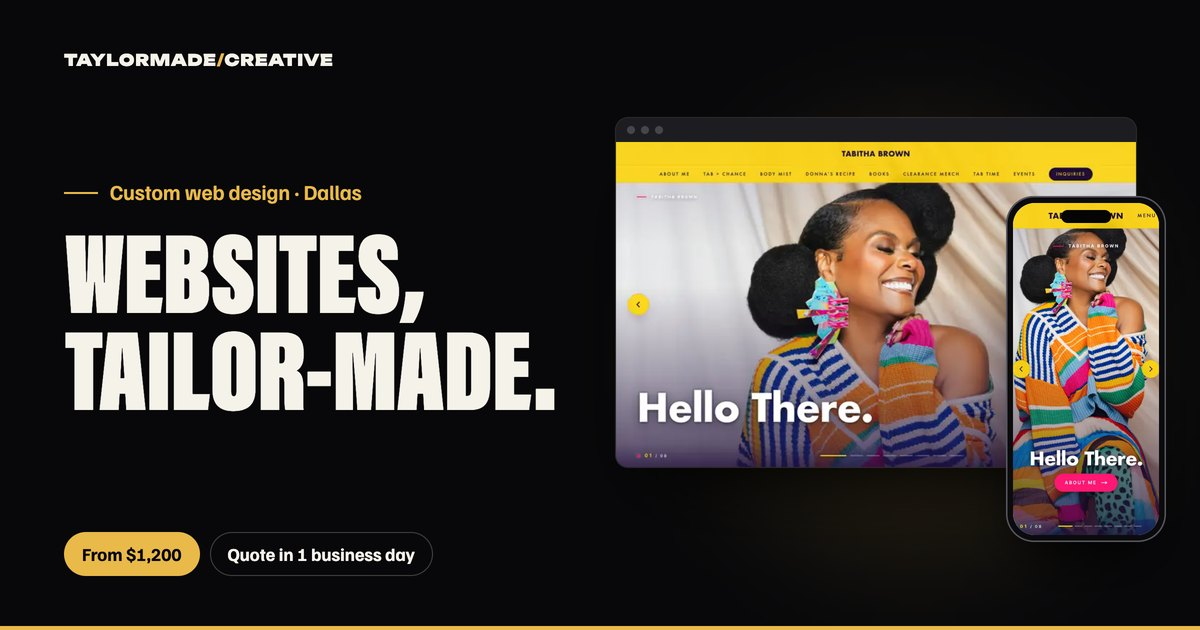
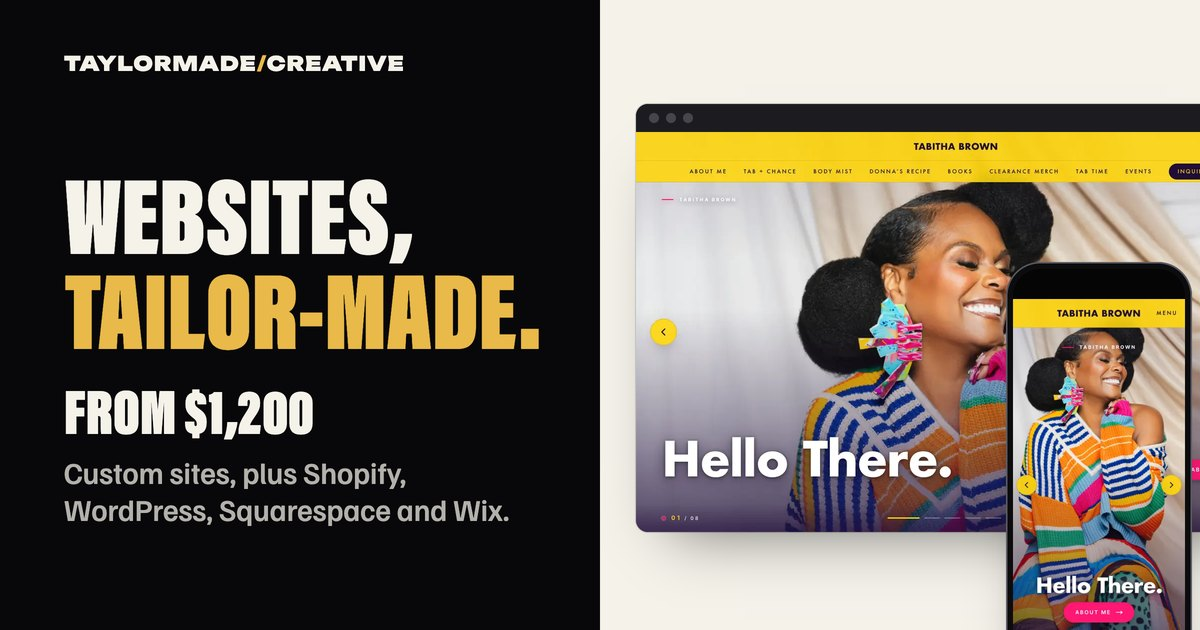
Share images v2: art-directed cover system (colour field + hard-edged panel, page h1 with gold word, one real offer line)

diff --git a/web-design/index.html b/web-design/index.html
@@ -17,7 +17,7 @@
   <meta property="og:image" content="https://www.taylormadecreative.net/assets/img/og/web-design.jpg">
   <meta property="og:image:width" content="1200">
   <meta property="og:image:height" content="630">
-  <meta property="og:image:alt" content="Taylormade Creative · Custom web design · Dallas: Websites, tailor-made. tabithabrown.com on a laptop and a phone.">
+  <meta property="og:image:alt" content="Taylormade Creative: Websites, tailor-made. From $1,200. Custom sites, plus Shopify, WordPress, Squarespace and Wix. tabithabrown.com in a browser and on a phone.">
   <meta property="og:url" content="https://www.taylormadecreative.net/web-design/">
   <meta name="twitter:card" content="summary_large_image">
   <meta name="twitter:title" content="Custom Web Design in Dallas | Taylormade Creative">

diff --git a/web-design/squarespace/index.html b/web-design/squarespace/index.html
@@ -17,7 +17,7 @@
   <meta property="og:image" content="https://www.taylormadecreative.net/assets/img/og/web-squarespace.jpg">
   <meta property="og:image:width" content="1200">
   <meta property="og:image:height" content="630">
-  <meta property="og:image:alt" content="Taylormade Creative · Squarespace web design · Dallas: Squarespace, past the template.">
+  <meta property="og:image:alt" content="Taylormade Creative: Squarespace, past the template. A Squarespace site shown in a browser and on a phone.">
   <meta property="og:url" content="https://www.taylormadecreative.net/web-design/squarespace/">
   <meta name="twitter:card" content="summary_large_image">
   <meta name="twitter:title" content="Squarespace Designer in Dallas–Fort Worth | Taylormade Creative">

diff --git a/branding-photography/index.html b/branding-photography/index.html
@@ -15,7 +15,7 @@
   <meta property="og:image" content="https://www.taylormadecreative.net/assets/img/og/branding-photography.jpg">
   <meta property="og:image:width" content="1200">
   <meta property="og:image:height" content="630">
-  <meta property="og:image:alt" content="Taylormade Creative · Branding photoshoots · Dallas: Put a face on your brand.">
+  <meta property="og:image:alt" content="Taylormade Creative: Put a face on your brand. For founders, beauty pros, med spas and apparel brands.">
   <meta property="og:url" content="https://www.taylormadecreative.net/branding-photography/">
   <meta name="twitter:card" content="summary_large_image">
   <meta name="twitter:image" content="https://www.taylormadecreative.net/assets/img/og/branding-photography.jpg">

diff --git a/privacy/podcast/index.html b/privacy/podcast/index.html
@@ -15,7 +15,7 @@
   <meta property="og:image" content="https://www.taylormadecreative.net/assets/img/og/privacy-podcast.jpg">
   <meta property="og:image:width" content="1200">
   <meta property="og:image:height" content="630">
-  <meta property="og:image:alt" content="Taylormade Creative · Taylormade Podcast · Privacy: Your episodes stay on your Mac.">
+  <meta property="og:image:alt" content="Taylormade Creative: Your episodes stay on your Mac. Taylormade Podcast. No accounts, tracking or ads.">
   <meta property="og:url" content="https://www.taylormadecreative.net/privacy/podcast/">
   <meta name="twitter:card" content="summary_large_image">
   <meta name="twitter:image" content="https://www.taylormadecreative.net/assets/img/og/privacy-podcast.jpg">

diff --git a/headshots/cost/index.html b/headshots/cost/index.html
@@ -15,7 +15,7 @@
   <meta property="og:image" content="https://www.taylormadecreative.net/assets/img/og/headshots-cost.jpg">
   <meta property="og:image:width" content="1200">
   <meta property="og:image:height" content="630">
-  <meta property="og:image:alt" content="Taylormade Creative · Headshot prices · Dallas: What headshots cost in Dallas.">
+  <meta property="og:image:alt" content="Taylormade Creative: What headshots cost in Dallas. Dallas sessions typically run $150 to $450. Here is why.">
   <meta property="og:url" content="https://www.taylormadecreative.net/headshots/cost/">
   <meta name="twitter:card" content="summary_large_image">
   <meta name="twitter:image" content="https://www.taylormadecreative.net/assets/img/og/headshots-cost.jpg">

diff --git a/corporate-headshots/index.html b/corporate-headshots/index.html
@@ -16,7 +16,7 @@
   <meta property="og:image" content="https://www.taylormadecreative.net/assets/img/og/corporate-headshots.jpg">
   <meta property="og:image:width" content="1200">
   <meta property="og:image:height" content="630">
-  <meta property="og:image:alt" content="Taylormade Creative · Team headshots · Dallas: Team headshots that match.">
+  <meta property="og:image:alt" content="Taylormade Creative: Team headshots that match. $99 each. At our studio, 10-person minimum. $125 at your office.">
   <meta property="og:url" content="https://www.taylormadecreative.net/corporate-headshots/">
   <meta name="twitter:card" content="summary_large_image">
   <meta name="twitter:title" content="Dallas team headshots, at your office or our studio">

diff --git a/workshops/index.html b/workshops/index.html
@@ -15,7 +15,7 @@
   <meta property="og:image" content="https://www.taylormadecreative.net/assets/img/og/workshops.jpg">
   <meta property="og:image:width" content="1200">
   <meta property="og:image:height" content="630">
-  <meta property="og:image:alt" content="Taylormade Creative · AI and creative workshops · DFW: Workshops where people build.">
+  <meta property="og:image:alt" content="Taylormade Creative: Workshops where people build. In DFW or virtual. Your team leaves having built something.">
   <meta property="og:url" content="https://www.taylormadecreative.net/workshops/">
   <meta name="twitter:card" content="summary_large_image">
   <meta name="twitter:image" content="https://www.taylormadecreative.net/assets/img/og/workshops.jpg">

diff --git a/social-media/index.html b/social-media/index.html
@@ -15,7 +15,7 @@
   <meta property="og:image" content="https://www.taylormadecreative.net/assets/img/og/social-media.jpg">
   <meta property="og:image:width" content="1200">
   <meta property="og:image:height" content="630">
-  <meta property="og:image:alt" content="Taylormade Creative · Social media content · Dallas: Post like a national brand.">
+  <meta property="og:image:alt" content="Taylormade Creative: Post like a national brand. Monthly reels, carousels and strategy, made in-house.">
   <meta property="og:url" content="https://www.taylormadecreative.net/social-media/">
   <meta name="twitter:card" content="summary_large_image">
   <meta name="twitter:image" content="https://www.taylormadecreative.net/assets/img/og/social-media.jpg">

diff --git a/senior-photos/index.html b/senior-photos/index.html
@@ -15,7 +15,7 @@
   <meta property="og:image" content="https://www.taylormadecreative.net/assets/img/og/senior-photos.jpg">
   <meta property="og:image:width" content="1200">
   <meta property="og:image:height" content="630">
-  <meta property="og:image:alt" content="Taylormade Creative · Senior photos · Dallas: Senior year. Your photos. Your way.">
+  <meta property="og:image:alt" content="Taylormade Creative: Senior year. Your photos. Your way. From $150. Our Dallas studio or anywhere in DFW.">
   <meta property="og:url" content="https://www.taylormadecreative.net/senior-photos/">
   <meta name="twitter:card" content="summary_large_image">
   <meta name="twitter:title" content="Senior Photos — from $150. Studio or on location in DFW.">

diff --git a/web-design/wordpress/index.html b/web-design/wordpress/index.html
@@ -17,7 +17,7 @@
   <meta property="og:image" content="https://www.taylormadecreative.net/assets/img/og/web-wordpress.jpg">
   <meta property="og:image:width" content="1200">
   <meta property="og:image:height" content="630">
-  <meta property="og:image:alt" content="Taylormade Creative · WordPress web design · Dallas: WordPress, redesigned.">
+  <meta property="og:image:alt" content="Taylormade Creative: WordPress, redesigned. A WordPress site shown in a browser and on a phone.">
   <meta property="og:url" content="https://www.taylormadecreative.net/web-design/wordpress/">
   <meta name="twitter:card" content="summary_large_image">
   <meta name="twitter:title" content="WordPress Designer &amp; Redesigns in Dallas | Taylormade Creative">

diff --git a/product-photography/index.html b/product-photography/index.html
@@ -15,7 +15,7 @@
   <meta property="og:image" content="https://www.taylormadecreative.net/assets/img/og/product-photography.jpg">
   <meta property="og:image:width" content="1200">
   <meta property="og:image:height" content="630">
-  <meta property="og:image:alt" content="Taylormade Creative · Product photography · Dallas: Make them want it.">
+  <meta property="og:image:alt" content="Taylormade Creative: Make them want it. Clean white, styled sets, dark luxe and in-hand.">
   <meta property="og:url" content="https://www.taylormadecreative.net/product-photography/">
   <meta name="twitter:card" content="summary_large_image">
   <meta name="twitter:image" content="https://www.taylormadecreative.net/assets/img/og/product-photography.jpg">

diff --git a/photography/index.html b/photography/index.html
@@ -14,7 +14,7 @@
   <meta property="og:image" content="https://www.taylormadecreative.net/assets/img/og/photography.jpg">
   <meta property="og:image:width" content="1200">
   <meta property="og:image:height" content="630">
-  <meta property="og:image:alt" content="Taylormade Creative · Commercial photography · Dallas: Campaigns for brands people know.">
+  <meta property="og:image:alt" content="Taylormade Creative: Campaigns for brands people know. TONI&amp;GUY, Oribe, Neutrogena. Shot in Dallas.">
   <meta property="og:url" content="https://www.taylormadecreative.net/photography/">
   <meta name="twitter:card" content="summary_large_image">
   <meta name="twitter:title" content="Commercial Photography in Dallas | Taylormade Creative">
